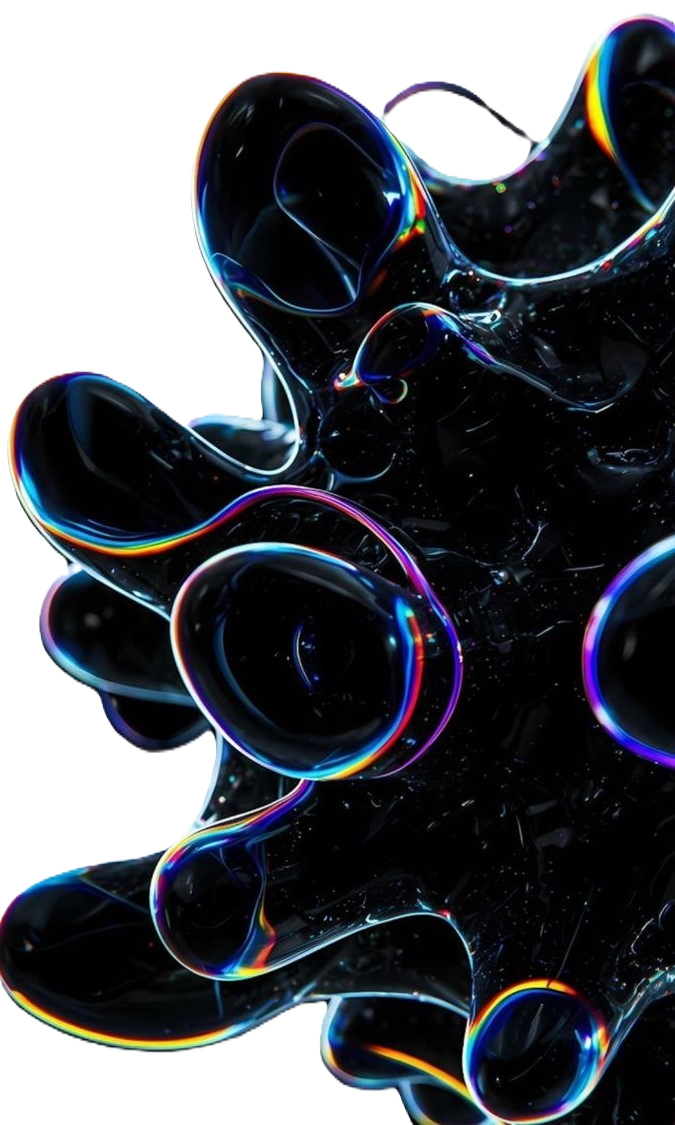
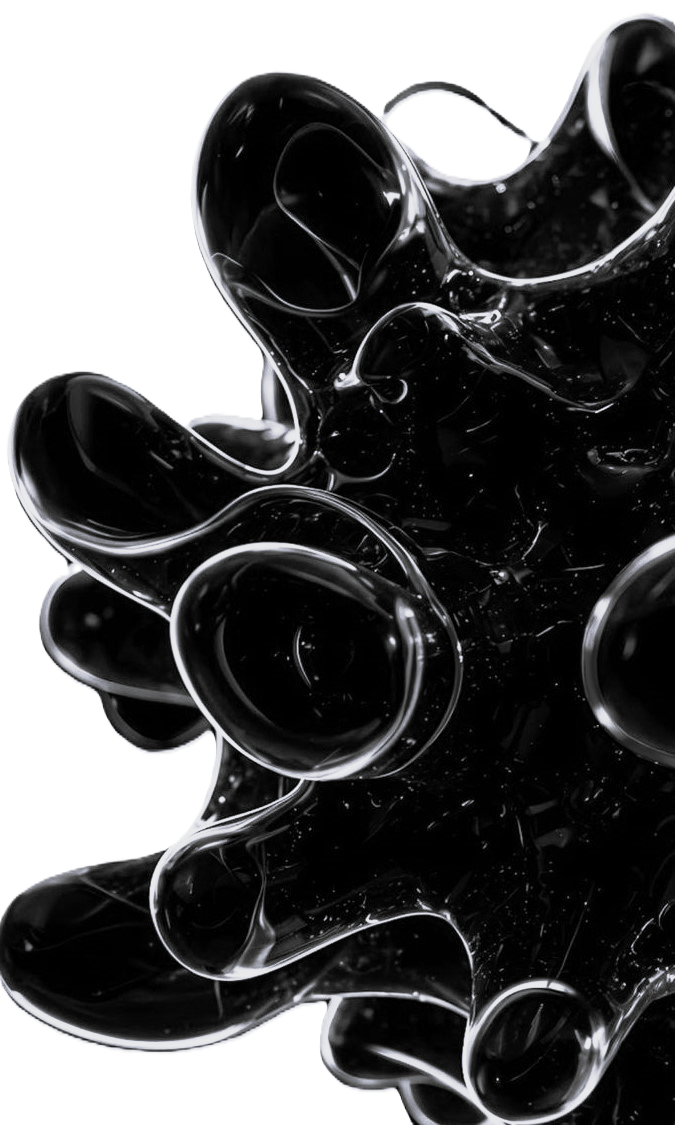
feat: alterações de design na hero

diff --git a/src/components/Hero.jsx b/src/components/Hero.jsx
@@ -9,12 +9,12 @@ export default function Hero() {
     <section className="relative flex flex-col items-center justify-center min-h-screen bg-carbon text-snow text-center px-4 overflow-hidden">
       {/* Imagem de fundo - esquerda */}
       <motion.img
-        src="hero-img.png"
+        src="hero-img-3.png"
         alt=""
         initial={{ opacity: 0, scale: 1.05 }}
-        animate={{ opacity: 0.15, scale: 1 }}
+        animate={{ opacity: 0.25, scale: 1 }}
         transition={{ duration: 1 }}
-        className="absolute hidden inset-0 w-full h-full object-contain object-left z-0 md:block"
+        className="absolute hidden inset-0 w-full h-full object-contain object-left -left-60 z-0 md:block"
       />
 
       {/* Imagem de fundo - direita */}
@@ -22,20 +22,20 @@ export default function Hero() {
         src="hero-img-2.png"
         alt=""
         initial={{ opacity: 0, scale: 1.05 }}
-        animate={{ opacity: 0.15, scale: 1 }}
+        animate={{ opacity: 0.25, scale: 1 }}
         transition={{ duration: 1 }}
         className="absolute hidden inset-0 w-full h-full object-contain object-right z-0 md:block"
       />
 
       {/* Fade inferior para suavizar a transição */}
-      <div className="absolute bottom-0 left-0 w-full h-78 bg-gradient-to-b from-transparent to-black z-10 pointer-events-none"></div>
+      <div className="absolute bottom-0 left-0 w-full h-108 bg-linear-to-b from-transparent to-black z-10 pointer-events-none"></div>
 
       {/* Headline */}
       <motion.h1
         initial={{ opacity: 0, y: -30 }}
         animate={{ opacity: 1, y: 0 }}
         transition={{ delay: 0.3, duration: 0.8 }}
-        className="text-5xl md:text-6xl font-bold tracking-tight max-w-3xl leading-tight"
+        className="text-7xl md:text-7xl font-bold tracking-tight max-w-3xl leading-tight"
       >
         {t("home.hero.title")}
       </motion.h1>
@@ -45,7 +45,7 @@ export default function Hero() {
         sequence={[t("home.hero.text-animation"), 2000]}
         speed={50}
         repeat={Infinity}
-        className="text-5xl whitespace-pre-line md:text-6xl font-bold tracking-tight max-w-3xl leading-tight"
+        className="text-5xl whitespace-pre-line md:text-6xl font-normal tracking-tight max-w-3xl leading-tight"
       />
 
       {/* Subtítulo */}
@@ -63,7 +63,7 @@ export default function Hero() {
         initial={{ opacity: 0, y: 20 }}
         animate={{ opacity: 1, y: 0 }}
         transition={{ delay: 0.3, duration: 0.8 }}
-        className="mt-10 bg-white text-carbon font-semibold px-8 py-3 rounded-2xl hover:bg-transparent hover:border-solid hover:border-amber-50 hover:border-1 hover:text-white transition cursor-pointer z-1"
+        className="mt-10 bg-white text-carbon font-semibold px-8 py-3 rounded-2xl hover:border-solid hover:border-amber-50 hover:border delay-75 transition cursor-pointer z-100 hover:scale-105 hover:bg-transparent hover:text-white"
       >
         {t("home.hero.cta")}
       </motion.button>

diff --git a/src/components/Header.jsx b/src/components/Header.jsx
@@ -38,12 +38,16 @@ export default function Header() {
         transition={{ delay: 0.3, duration: 0.8 }}
       >
         {navbarItens.map((item, i) => (
-          <a key={i} href="#" className="transition-colors">
+          <a
+            key={i}
+            href="#"
+            className="relative group transition-colors text-snow"
+          >
             {item}
+            <span className="absolute bottom-0 left-0 w-full h-0.5 bg-linear-to-r from-gray-500 to-white shadow-[0_0_8px_rgba(251,191,36,0.5)] scale-x-0 group-hover:scale-x-100 origin-left transition-transform duration-300"></span>
           </a>
         ))}
       </motion.nav>
-
       {/* Botão de idioma */}
       <motion.button
         onClick={toggleLang}
